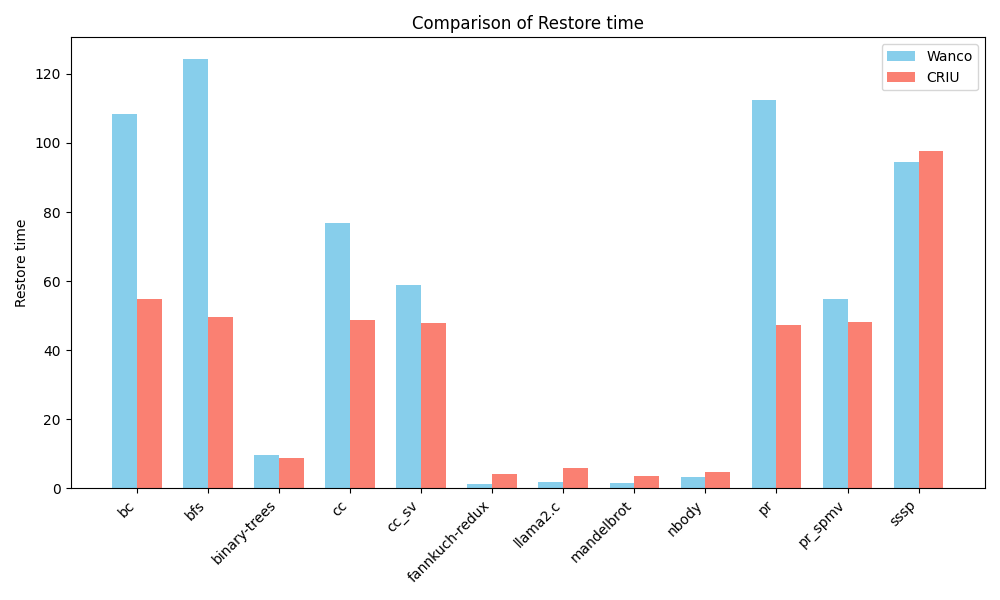
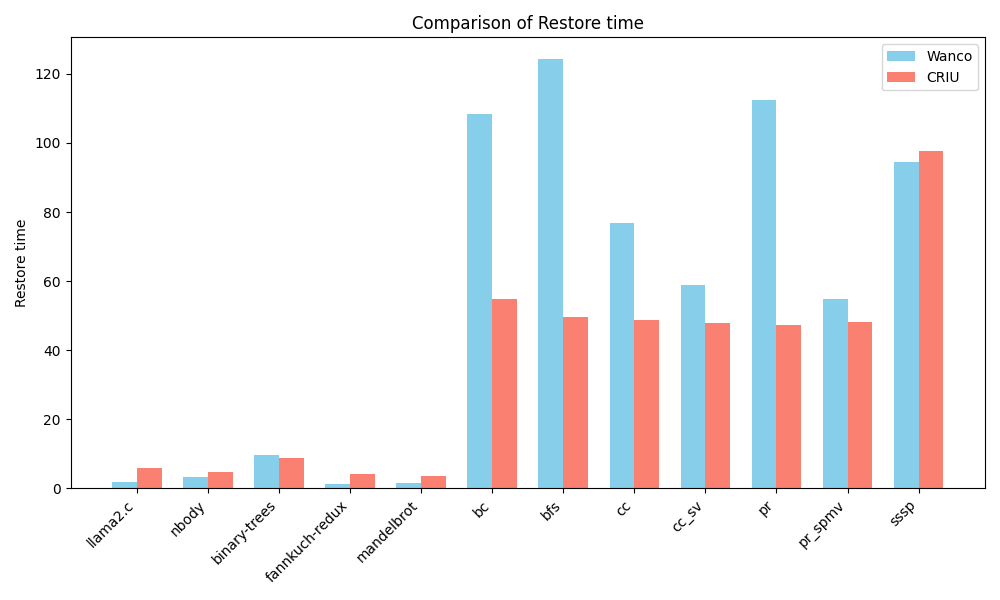
fix benchmark program order

diff --git a/benchmark/scripts/plot-wasm-vs-criu.py b/benchmark/scripts/plot-wasm-vs-criu.py
@@ -4,13 +4,15 @@ import argparse
 import os
 
 
-def load_and_aggregate(csv_path):
+def load_and_aggregate(csv_path) -> pd.DataFrame:
     df = pd.read_csv(csv_path)
-    return df.groupby("program").median()
+    return df.groupby("program", sort=False).median()
 
 
-def plot_comparison(df_a, df_b, column, output_file):
-    programs = sorted(set(df_a.index) | set(df_b.index))
+def plot_comparison(
+    df_a: pd.DataFrame, df_b: pd.DataFrame, column: str, output_file: str
+) -> None:
+    programs = df_a.index
 
     values_a = [df_a.loc[p, column] if p in df_a.index else 0 for p in programs]
     values_b = [df_b.loc[p, column] if p in df_b.index else 0 for p in programs]
@@ -20,7 +22,11 @@ def plot_comparison(df_a, df_b, column, output_file):
 
     plt.figure(figsize=(10, 6))
     plt.bar(
-        [i - width / 2 for i in x], values_a, width=width, label="Wanco", color="skyblue"
+        [i - width / 2 for i in x],
+        values_a,
+        width=width,
+        label="Wanco",
+        color="skyblue",
     )
     plt.bar(
         [i + width / 2 for i in x], values_b, width=width, label="CRIU", color="salmon"
